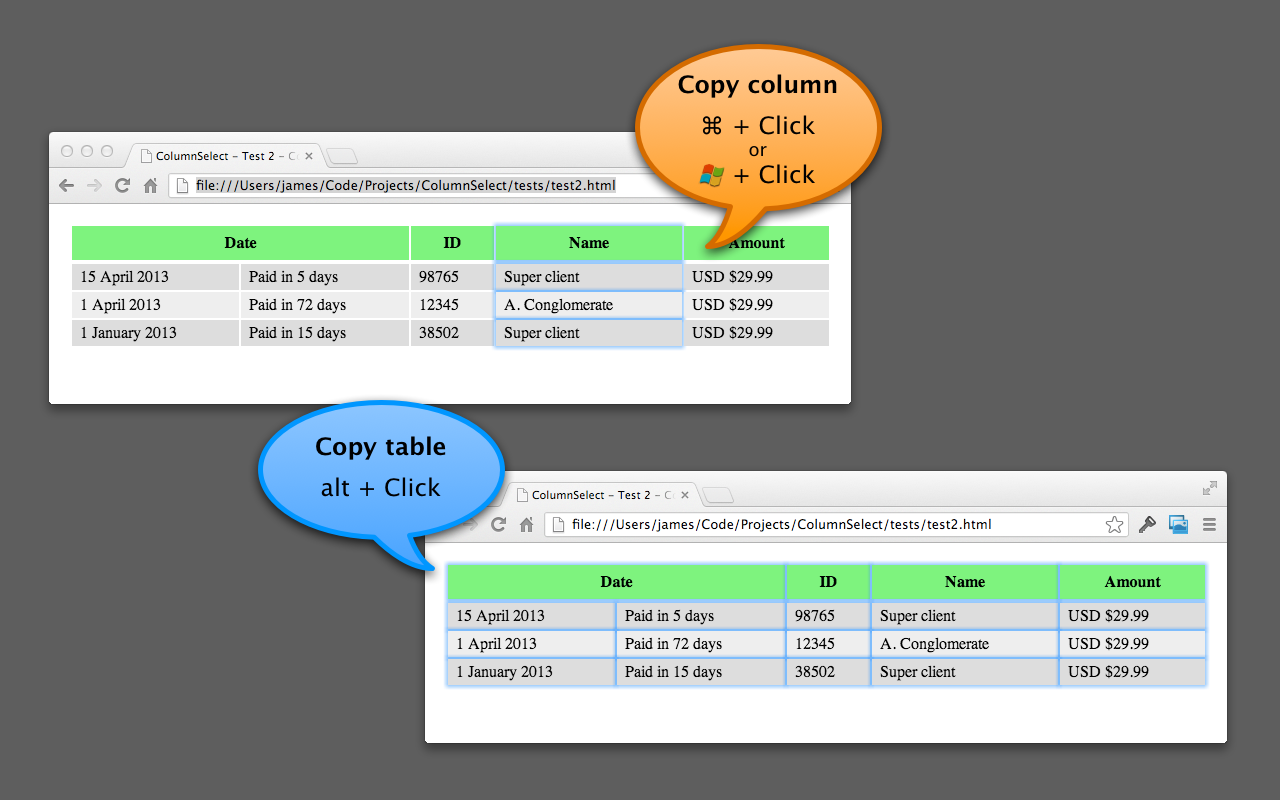
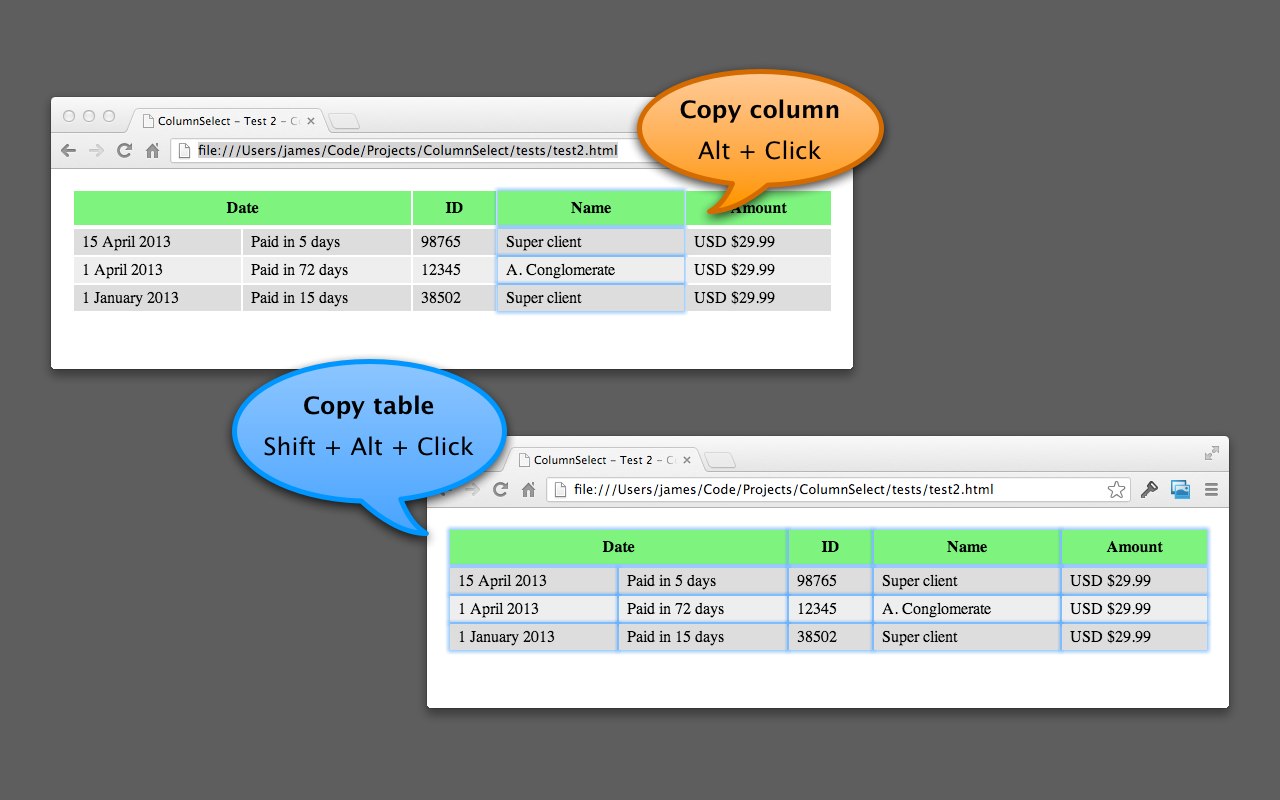
Updating documentation and graphics to reflect new keyboard shortcuts.

diff --git a/README.md b/README.md
@@ -13,8 +13,14 @@ A Google Chrome extension which enables selecting columns from table.
 ## Usage
 
 1. Enable the extension.
-2. Alt+Click on any table cell. The column contents is now in your clipboard.
-3. Super+Click on any table cell. The table contents is now in your clipboard.
+2. Alt + Click on any table cell. The column contents is now in your clipboard.
+3. Shit + Alt + Click on any table cell. The table contents is now in your clipboard.
+
+
+## Credits
+
+"Pinstriped Suit" graphic used in promotional images by Alex Berkowitz from
+SubtlePatterns.com. See: http://subtlepatterns.com/pinstriped-suit/
 
 
 ## License
